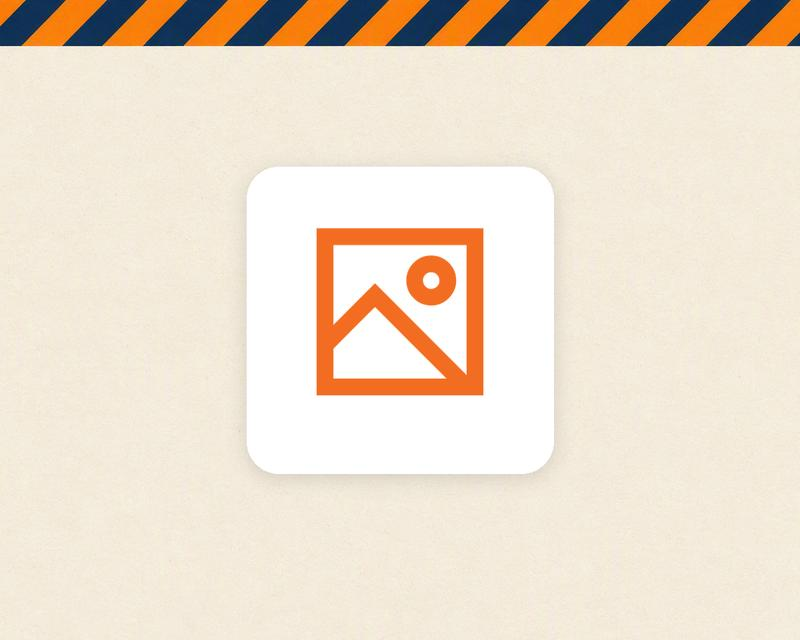
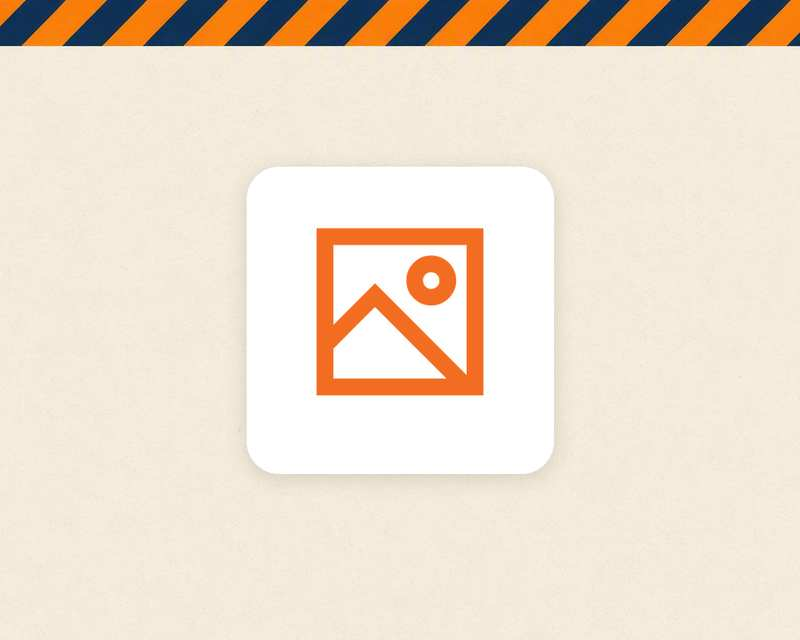
刷题页切题手势扩至全屏（绑定上移到页面根节点，纵向滚动/点按/弹层不受影响）；分享图全量重压缩 q75→q55 并加 optimize（7 张由约 31KB 降至约 15KB，包内图片合计 222KB→109KB，修复体验评分「图片和音频资源 ≤200K」未通过）；开发指南分享图体积口径同步

diff --git a/design/make_share_images.py b/design/make_share_images.py
@@ -98,14 +98,14 @@ def main():
         glyph = render_glyph(cp, ICON_SIZE * 2, ORANGE)
         img = compose(bg, glyph)
         path = OUT_DIR / f'share-{key}.jpg'
-        img.save(path, 'JPEG', quality=75)
+        img.save(path, 'JPEG', quality=55, optimize=True)
         print(f'{path.name}: {img.size}, {path.stat().st_size // 1024}KB')
 
     # 通用分享图（工具箱图标，复用 assets/toolbox.png）
     toolbox = Image.open(TOOLBOX_PATH).convert('RGBA')
     img = compose(bg, toolbox)
     path = OUT_DIR / 'share-toolbox.jpg'
-    img.save(path, 'JPEG', quality=75)
+    img.save(path, 'JPEG', quality=55, optimize=True)
     print(f'{path.name}: {img.size}, {path.stat().st_size // 1024}KB')
 
 

diff --git a/开发指南.md b/开发指南.md
@@ -346,7 +346,7 @@ VALUES ('my-app', '应用名称', 'robot', '/pkg-myapp/pages/index/index', 3, 1)
 
 - `app` 传 `sys_app.app_key`（分享图用应用图标）；非应用页面（首页/登录/管理等）不传，用工具箱分享图；
 - 标题自动拼「xxx · Shade 壹匣」；分享路径默认当前页，登录页固定落 `/pages/home/home`（首页门控自动处理未登录跳转）；
-- 分享图由 `design/make_share_images.py` 生成：背景统一（暖纸底 + 顶部橙青警示斜纹条），中央白色圆角卡片 + 图标，**尺寸固定 5:4（800×640，微信分享缩略图按 5:4 裁剪显示，源头必须就是 5:4，否则图标会被裁偏；体验评分要求包内图片音频资源合计不超过 200K，单张约 30KB 以为后续应用留余量，应用增多超限时改传 COS 用 URL 引入）**。新应用接入时：① 查图标码点——`miniprogram/node_modules/tdesign-miniprogram/miniprogram_dist/icon/icon.wxss` 中 `.t-icon-<图标名>:before` 的 `content`；② 在脚本 `APPS` 字典加 `'app-key': 0x码点` 后重跑，生成 `miniprogram/images/share/share-<app-key>.jpg`；③ `utils/share.js` 的 `SHARE_IMAGES` 加一行映射；
+- 分享图由 `design/make_share_images.py` 生成：背景统一（暖纸底 + 顶部橙青警示斜纹条），中央白色圆角卡片 + 图标，**尺寸固定 5:4（800×640，微信分享缩略图按 5:4 裁剪显示，源头必须就是 5:4，否则图标会被裁偏；体验评分要求包内图片音频资源合计不超过 200K，JPEG quality=55 单张约 15KB（v2.1.0 由 q75/约 30KB 全量重压，7 张合计约 104KB），应用继续增多再超限时改传 COS 用 URL 引入）**。新应用接入时：① 查图标码点——`miniprogram/node_modules/tdesign-miniprogram/miniprogram_dist/icon/icon.wxss` 中 `.t-icon-<图标名>:before` 的 `content`；② 在脚本 `APPS` 字典加 `'app-key': 0x码点` 后重跑，生成 `miniprogram/images/share/share-<app-key>.jpg`；③ `utils/share.js` 的 `SHARE_IMAGES` 加一行映射；
 - 图标字形渲染自 TDesign 图标 webfont `design/font/t.ttf`（版本见上述 icon.wxss 的 `@font-face` URL），升级 tdesign-miniprogram 大版本后需重新下载同步。
 
 应用如需同时提供网页端页面，接入方式见第十一节（`server/public/` 新增页面 + 工作台宫格登记）。
